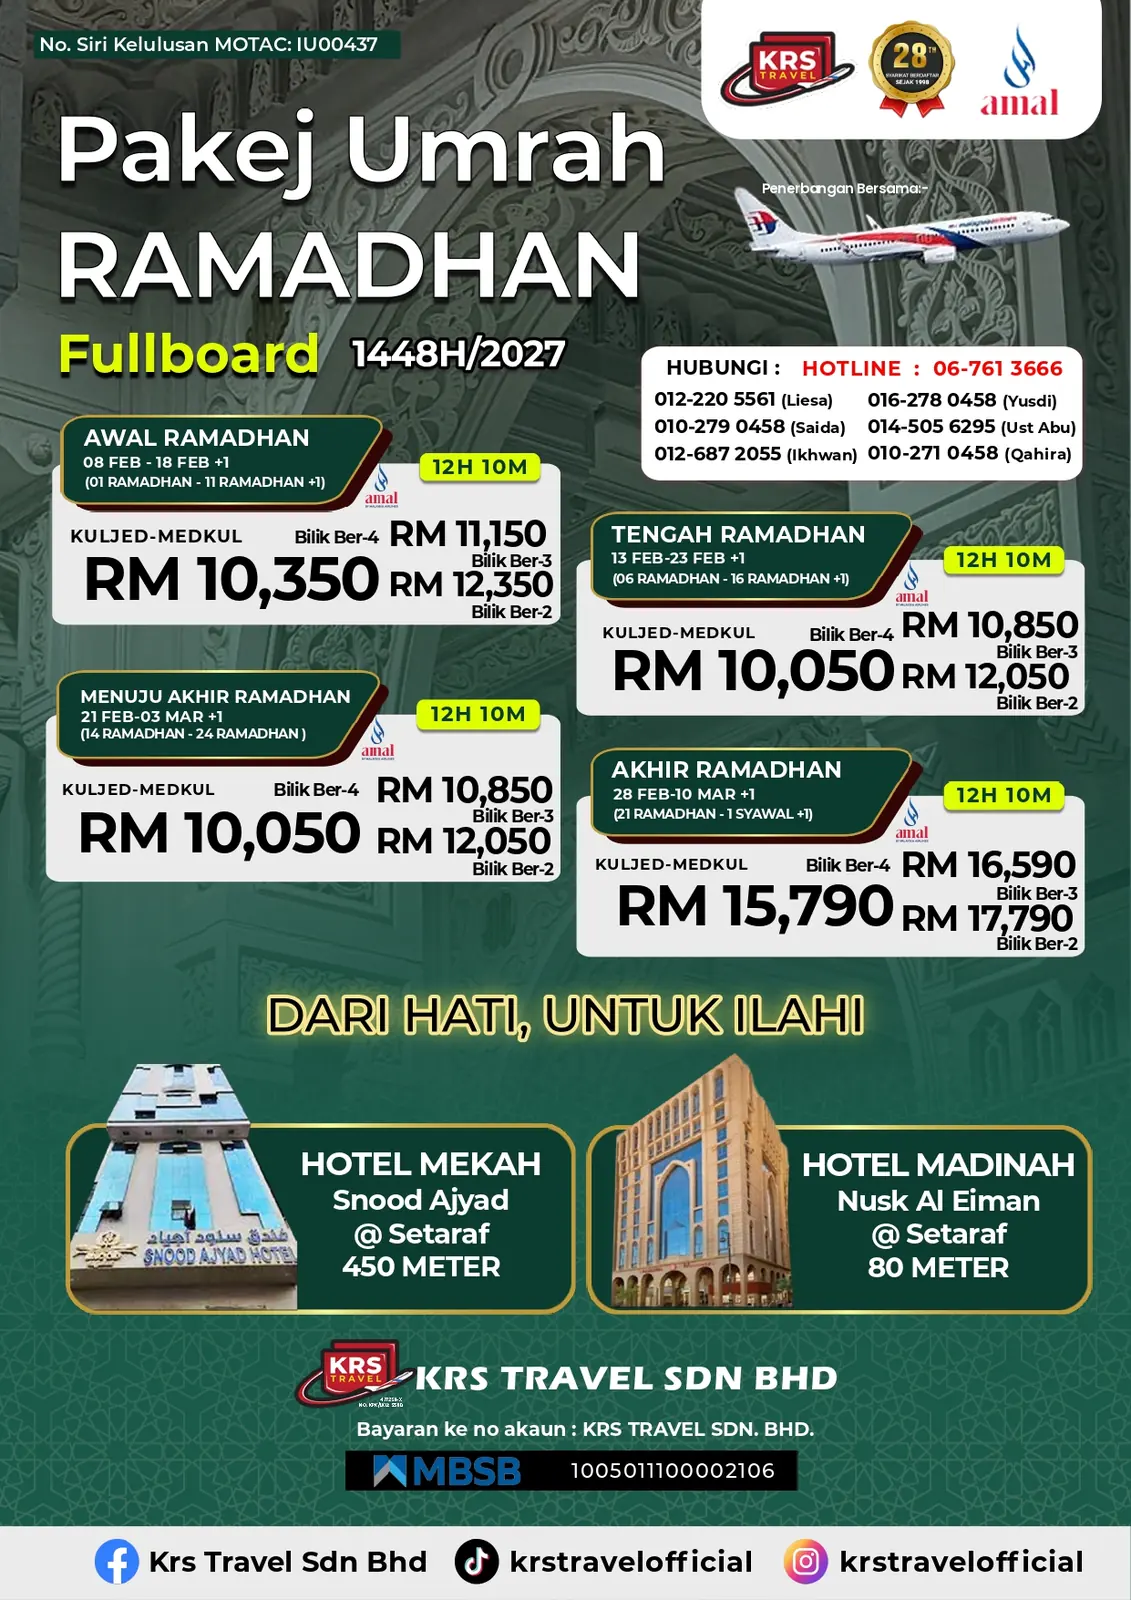
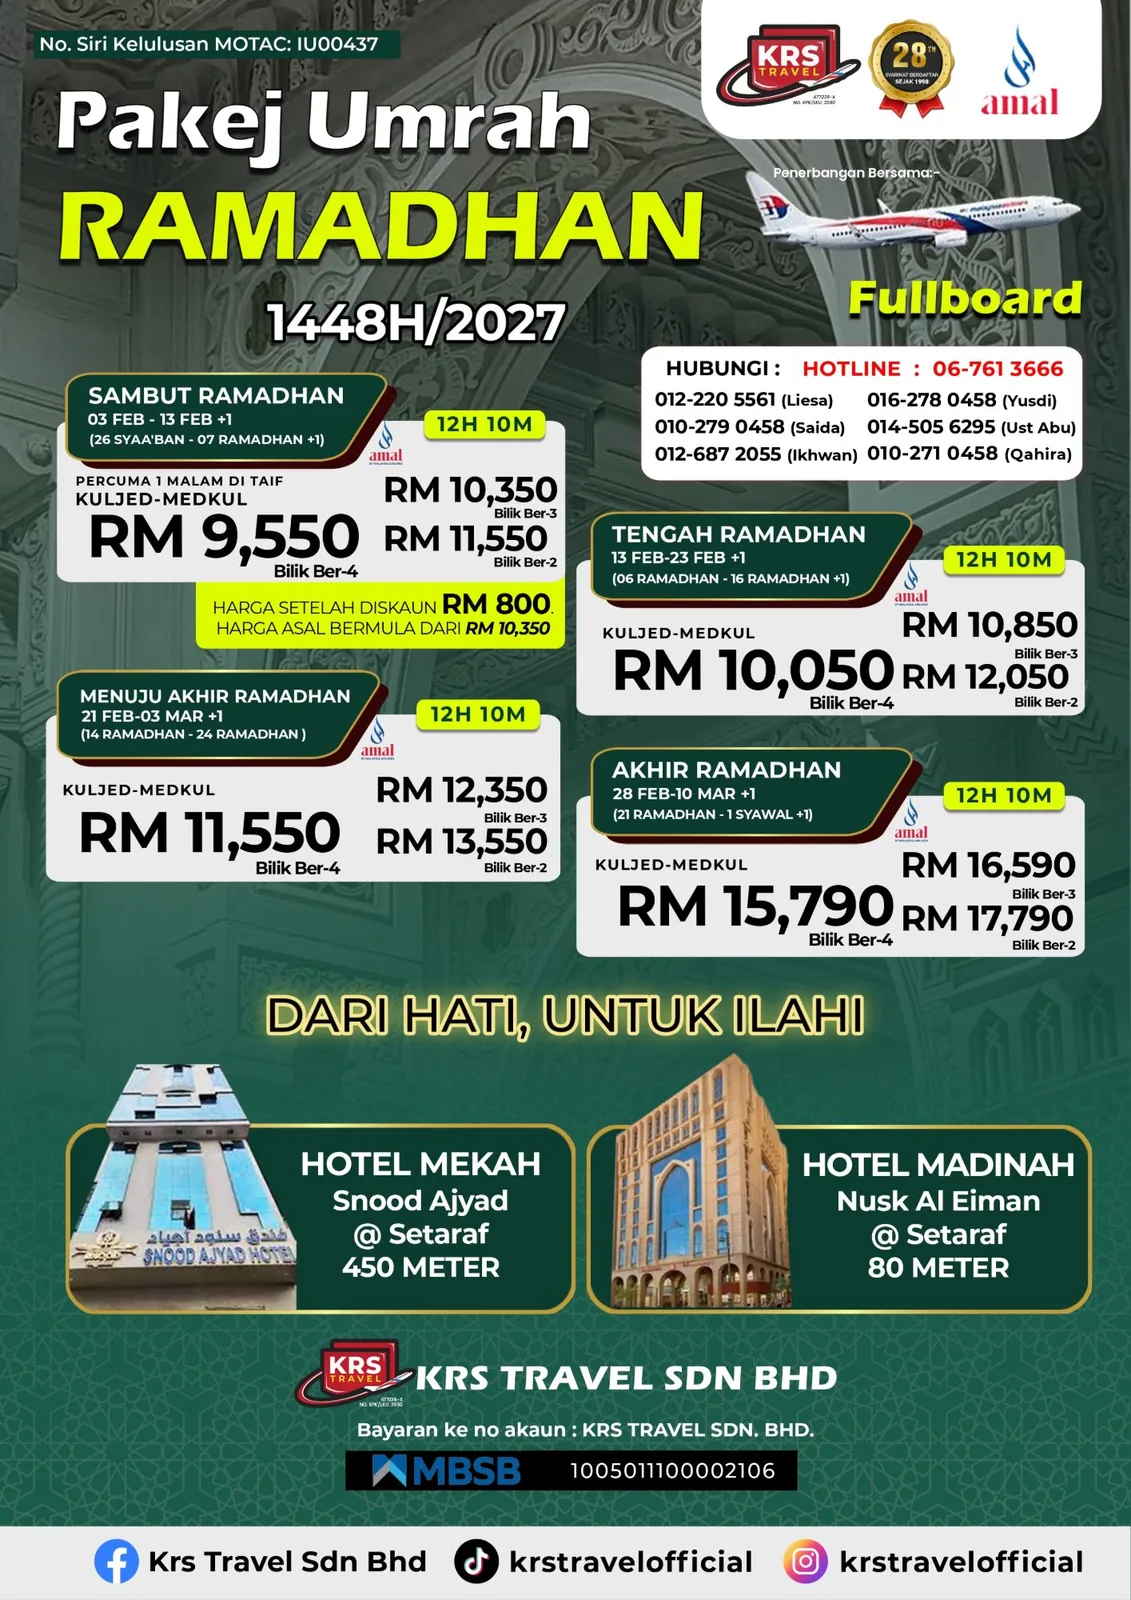
Refresh the Ramadhan 1448H posters and match the card copy
Swaps in the new artwork for both Ramadhan cards and brings the text
alongside them back in line:

- Sebulan Ramadhan keeps 08 Feb – 10 Mac 2027, which is the 31 hari 30
  malam the card advertises.
- Awal Ramadhan is now Sambut Ramadhan, 03–13 Feb +1, at RM 9,550 ber-4
  after the RM 800 discount, with the free night in Taif noted.
- Menuju Akhir Ramadhan was repeating the Tengah Ramadhan prices; it now
  reads RM 11,550 / 12,350 / 13,550.
- The card's headline price follows to RM 9,550.

Both posters keep their existing 1131x1600 size, so no markup moved.

diff --git a/site-live/umrah.html b/site-live/umrah.html
@@ -880,7 +880,7 @@ body.is-lbox-open{overflow:hidden}
           <h3>Umrah Sebulan Ramadhan</h3>
           <p class="pcard__tier">1448H / 2027 · 31 Hari 30 Malam · Fullboard</p>
           <ul class="pcard__feats">
-            <li>08 Feb – 10 Mac +1 · sebulan penuh di Tanah Suci</li>
+            <li>08 Feb – 10 Mac 2027 · sebulan penuh di Tanah Suci</li>
             <li>Penerbangan terus Saudia</li>
             <li>Makkah: Snood Ajyad @setaraf — 450 meter</li>
             <li>Madinah: Nusk Al Eiman @setaraf — 80 meter</li>
@@ -902,14 +902,15 @@ body.is-lbox-open{overflow:hidden}
           <h3>Pelbagai Pakej Umrah Ramadhan 1448H</h3>
           <p class="pcard__tier">4 pilihan tarikh · 12 Hari 10 Malam · Kuljed–Medkul</p>
           <ul class="pcard__feats">
-            <li>Awal Ramadhan · 08–18 Feb +1 (01–11 Ramadhan +1) — ber-4 RM 10,350 · ber-3 RM 11,150 · ber-2 RM 12,350</li>
+            <li>Sambut Ramadhan · 03–13 Feb +1 (26 Syaaban – 07 Ramadhan +1) — ber-4 RM 9,550 · ber-3 RM 10,350 · ber-2 RM 11,550 · percuma 1 malam di Taif</li>
             <li>Tengah Ramadhan · 13–23 Feb +1 (06–16 Ramadhan +1) — ber-4 RM 10,050 · ber-3 RM 10,850 · ber-2 RM 12,050</li>
-            <li>Menuju Akhir Ramadhan · 21 Feb – 03 Mac +1 (14–24 Ramadhan) — ber-4 RM 10,050 · ber-3 RM 10,850 · ber-2 RM 12,050</li>
+            <li>Menuju Akhir Ramadhan · 21 Feb – 03 Mac +1 (14–24 Ramadhan) — ber-4 RM 11,550 · ber-3 RM 12,350 · ber-2 RM 13,550</li>
             <li>Akhir Ramadhan · 28 Feb – 10 Mac +1 (21 Ramadhan – 1 Syawal +1) — ber-4 RM 15,790 · ber-3 RM 16,590 · ber-2 RM 17,790</li>
             <li>Penerbangan terus AMAL by Malaysia Airlines</li>
             <li>Makkah: Snood Ajyad 450 m · Madinah: Nusk Al Eiman 80 m</li>
+            <li>Sambut Ramadhan: harga selepas diskaun RM 800 (harga asal dari RM 10,350)</li>
           </ul>
-          <a class="pcard__price" href="https://wa.me/60102790458?text=Salam,%20saya%20berminat%20dengan%20Pakej%20Umrah%20Ramadhan%201448H"><span>Dari</span><strong>RM 10,050</strong><em>/pax</em></a>
+          <a class="pcard__price" href="https://wa.me/60102790458?text=Salam,%20saya%20berminat%20dengan%20Pakej%20Umrah%20Ramadhan%201448H"><span>Dari</span><strong>RM 9,550</strong><em>/pax</em></a>
           <a class="btn btn--wa btn--block pcard__cta" href="https://wa.me/60102790458?text=Salam,%20saya%20berminat%20dengan%20Pakej%20Umrah%20Ramadhan%201448H" target="_blank" rel="noopener">
             <svg viewBox="0 0 24 24" fill="currentColor" aria-hidden="true"><path d="M12 2a10 10 0 0 0-8.6 15L2 22l5.2-1.3A10 10 0 1 0 12 2zm0 18a8 8 0 0 1-4.1-1.1l-.3-.2-3 .8.8-2.9-.2-.3A8 8 0 1 1 12 20zm4.4-5.9c-.2-.1-1.4-.7-1.6-.8-.2-.1-.4-.1-.5.1l-.7.9c-.1.2-.3.2-.5.1a6.5 6.5 0 0 1-3.2-2.8c-.1-.2 0-.4.1-.5l.4-.5c.1-.2.1-.3 0-.5l-.7-1.6c-.2-.4-.4-.4-.5-.4h-.5c-.2 0-.5.1-.7.3-.8.8-.9 1.9-.2 3.1a10 10 0 0 0 4.3 4.1c1.6.7 2.5.6 3.2.4.5-.2 1.2-.8 1.3-1.3.1-.4.1-.8 0-.9z"/></svg>
             Saya Berminat
@@ -1310,7 +1311,7 @@ body.is-lbox-open{overflow:hidden}
     <div class="faq">
       <details>
         <summary>Apakah jenis pakej umrah yang ditawarkan?</summary>
-        <div>Pakej Mandhi (12 Hari 10 Malam), Pakej Kabsah (12 Hari 10 Malam), Pakej Maqlubah (12 Hari 10 Malam) serta Pakej Umrah Ramadhan — Awal, Pertengahan, Menuju Akhir, Akhir (12 Hari 10 Malam) dan Sebulan Ramadhan (31 Hari 30 Malam).</div>
+        <div>Pakej Mandhi (12 Hari 10 Malam), Pakej Kabsah (12 Hari 10 Malam), Pakej Maqlubah (12 Hari 10 Malam) serta Pakej Umrah Ramadhan — Sambut, Tengah, Menuju Akhir, Akhir (12 Hari 10 Malam) dan Sebulan Ramadhan (31 Hari 30 Malam).</div>
       </details>
 
       <details>

diff --git a/site-live/index.html b/site-live/index.html
@@ -1623,7 +1623,7 @@ body.is-lbox-open{overflow:hidden}
             <li>Pakej Mandhi (12 Hari 10 Malam)</li>
             <li>Pakej Kabsah (12 Hari 10 Malam)</li>
             <li>Pakej Maqlubah (12 Hari 10 Malam)</li>
-            <li>Pakej Umrah Ramadhan — Awal, Pertengahan, Menuju Akhir, Akhir (12 Hari 10 Malam) dan Sebulan Ramadhan (31 Hari 30 Malam)</li>
+            <li>Pakej Umrah Ramadhan — Sambut, Tengah, Menuju Akhir, Akhir (12 Hari 10 Malam) dan Sebulan Ramadhan (31 Hari 30 Malam)</li>
           </ul>
         </div>
       </details>
